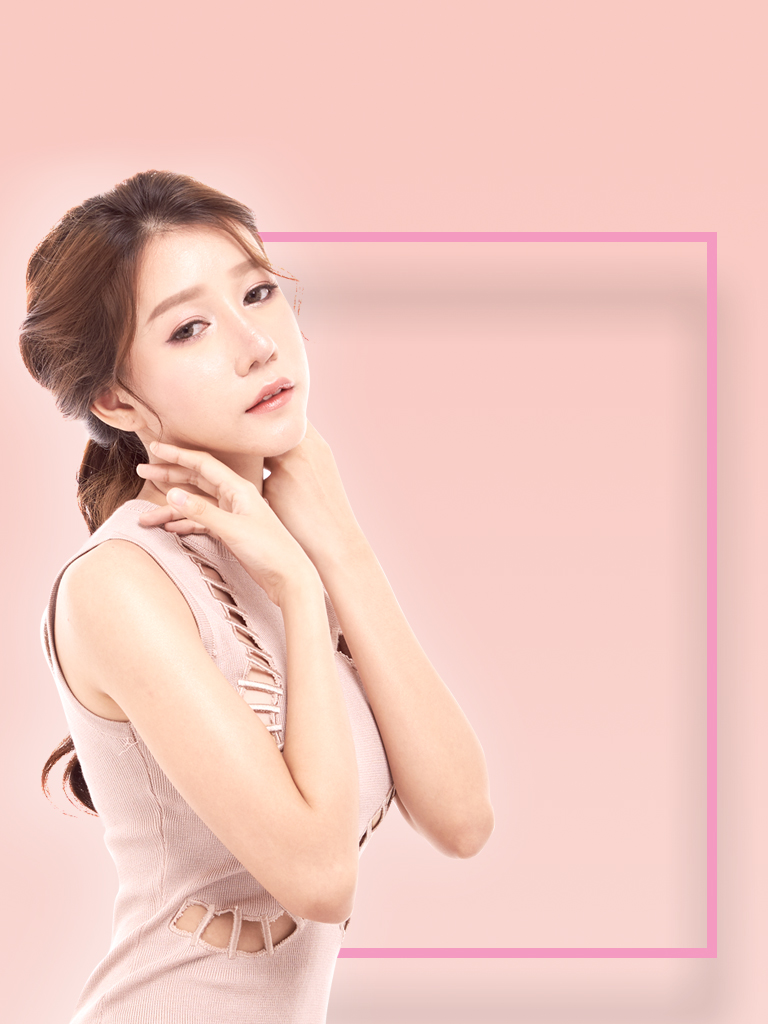
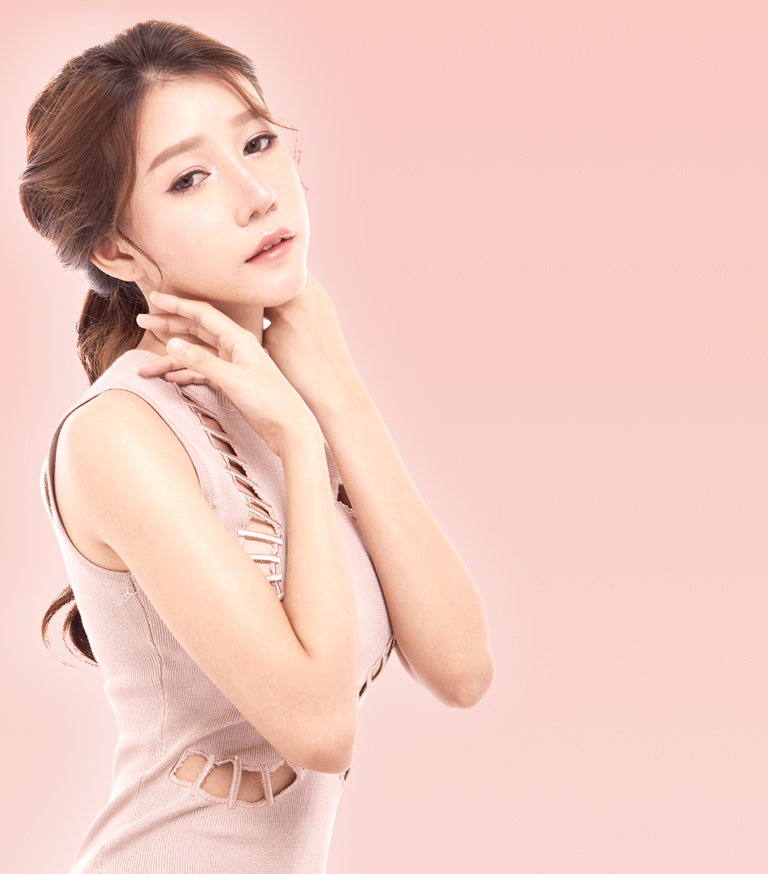
edit testimonial bg

diff --git a/abc/index.html b/abc/index.html
@@ -332,7 +332,7 @@
                 </div>
             </section>
             
-            <section class="bg-testimonial section">
+            <section class="bg-testimonial section fp-auto-height-responsive">
                 
                 <div class="container-fluid pt-5 pb-5">
                     <div class="row pt-0 pb-0">
@@ -344,47 +344,47 @@
                     </div>
                     
                     <div class="row">
-                        <div class="col-12 col-sm-12 col-md-6 offset-md-6 col-lg-4 col-xl-4 offset-lg-7">
+                        <div class="col-12 col-sm-12 col-md-7 offset-md-5 col-lg-6 offset-lg-6 col-xl-65 offset-xl-6">
                             <div id="carouselIndicators" class="carousel slide" data-ride="carousel">
                                 <div class="carousel-inner">
                                     <div class="carousel-item active text-center">
-                                        <iframe src="https://www.facebook.com/plugins/post.php?href=https%3A%2F%2Fwww.facebook.com%2Fkunfiat%2Fposts%2F10211258450399316%3A0&width=360" width="360" height="600" style="width: 100%; border:none;overflow:hidden" scrolling="no" frameborder="0" allowTransparency="true" allow="encrypted-media"></iframe>
+                                        <iframe src="https://www.facebook.com/plugins/post.php?href=https%3A%2F%2Fwww.facebook.com%2Fkunfiat%2Fposts%2F10211258450399316%3A0&width=600" width="600" height="450" style="width: 100%; border:none;overflow:hidden" scrolling="no" frameborder="0" allowTransparency="true" allow="encrypted-media"></iframe>
                                     </div>
                                     <div class="carousel-item text-center">
-                                        <iframe src="https://www.facebook.com/plugins/post.php?href=https%3A%2F%2Fwww.facebook.com%2Fpermalink.php%3Fstory_fbid%3D202237100564059%26id%3D100023333120364%26substory_index%3D0&width=360" width="360" height="600" style="width: 100%; border:none;overflow:hidden" scrolling="no" frameborder="0" allowTransparency="true" allow="encrypted-media"></iframe>
+                                        <iframe src="https://www.facebook.com/plugins/post.php?href=https%3A%2F%2Fwww.facebook.com%2Fpermalink.php%3Fstory_fbid%3D202237100564059%26id%3D100023333120364%26substory_index%3D0&width=600" width="600" height="450" style="width: 100%; border:none;overflow:hidden" scrolling="no" frameborder="0" allowTransparency="true" allow="encrypted-media"></iframe>
                                     </div>
                                     <div class="carousel-item text-center">
-                                        <iframe src="https://www.facebook.com/plugins/post.php?href=https%3A%2F%2Fwww.facebook.com%2Fnoony.koumphonphakdee%2Fposts%2F1958642414390766%3A0&width=360" width="360" height="600" style="width: 100%; border:none;overflow:hidden" scrolling="no" frameborder="0" allowTransparency="true" allow="encrypted-media"></iframe>
+                                        <iframe src="https://www.facebook.com/plugins/post.php?href=https%3A%2F%2Fwww.facebook.com%2Fnoony.koumphonphakdee%2Fposts%2F1958642414390766%3A0&width=600" width="600" height="450" style="width: 100%; border:none;overflow:hidden" scrolling="no" frameborder="0" allowTransparency="true" allow="encrypted-media"></iframe>
                                     </div>
                                     <div class="carousel-item text-center">
-                                        <iframe src="https://www.facebook.com/plugins/post.php?href=https%3A%2F%2Fwww.facebook.com%2Fji.fifa%2Fposts%2F1700762803298669%3A0&width=360" width="360" height="600" style="width: 100%; border:none;overflow:hidden" scrolling="no" frameborder="0" allowTransparency="true" allow="encrypted-media"></iframe>
+                                        <iframe src="https://www.facebook.com/plugins/post.php?href=https%3A%2F%2Fwww.facebook.com%2Fji.fifa%2Fposts%2F1700762803298669%3A0&width=600" width="600" height="450" style="width: 100%; border:none;overflow:hidden" scrolling="no" frameborder="0" allowTransparency="true" allow="encrypted-media"></iframe>
                                     </div>
                                     <div class="carousel-item text-center">
-                                        <iframe src="https://www.facebook.com/plugins/post.php?href=https%3A%2F%2Fwww.facebook.com%2Fpermalink.php%3Fstory_fbid%3D284262708754055%26id%3D100015109842452%26substory_index%3D0&width=360" width="360" height="600" style="width: 100%; border:none;overflow:hidden" scrolling="no" frameborder="0" allowTransparency="true" allow="encrypted-media"></iframe>
+                                        <iframe src="https://www.facebook.com/plugins/post.php?href=https%3A%2F%2Fwww.facebook.com%2Fpermalink.php%3Fstory_fbid%3D284262708754055%26id%3D100015109842452%26substory_index%3D0&width=600" width="600" height="450" style="width: 100%; border:none;overflow:hidden" scrolling="no" frameborder="0" allowTransparency="true" allow="encrypted-media"></iframe>
                                     </div>
                                     <div class="carousel-item text-center">
-                                        <iframe src="https://www.facebook.com/plugins/post.php?href=https%3A%2F%2Fwww.facebook.com%2Fpermalink.php%3Fstory_fbid%3D534124043598566%26id%3D100010029251324%26substory_index%3D0&width=360" width="360" height="600" style="width: 100%; border:none;overflow:hidden" scrolling="no" frameborder="0" allowTransparency="true" allow="encrypted-media"></iframe>
+                                        <iframe src="https://www.facebook.com/plugins/post.php?href=https%3A%2F%2Fwww.facebook.com%2Fpermalink.php%3Fstory_fbid%3D534124043598566%26id%3D100010029251324%26substory_index%3D0&width=600" width="600" height="450" style="width: 100%; border:none;overflow:hidden" scrolling="no" frameborder="0" allowTransparency="true" allow="encrypted-media"></iframe>
                                     </div>
                                     <div class="carousel-item text-center">
-                                        <iframe src="https://www.facebook.com/plugins/post.php?href=https%3A%2F%2Fwww.facebook.com%2Fnum.pwe%2Fposts%2F1704611066220651%3A0&width=360" width="360" height="600" style="width: 100%; border:none;overflow:hidden" scrolling="no" frameborder="0" allowTransparency="true" allow="encrypted-media"></iframe>
+                                        <iframe src="https://www.facebook.com/plugins/post.php?href=https%3A%2F%2Fwww.facebook.com%2Fnum.pwe%2Fposts%2F1704611066220651%3A0&width=600" width="600" height="450" style="width: 100%; border:none;overflow:hidden" scrolling="no" frameborder="0" allowTransparency="true" allow="encrypted-media"></iframe>
                                     </div>
                                     <div class="carousel-item text-center">
-                                        <iframe src="https://www.facebook.com/plugins/post.php?href=https%3A%2F%2Fwww.facebook.com%2Ffon.pps.7%2Fposts%2F1663580057047692%3A0&width=360" width="360" height="600" style="width: 100%; border:none;overflow:hidden" scrolling="no" frameborder="0" allowTransparency="true" allow="encrypted-media"></iframe>
+                                        <iframe src="https://www.facebook.com/plugins/post.php?href=https%3A%2F%2Fwww.facebook.com%2Ffon.pps.7%2Fposts%2F1663580057047692%3A0&width=600" width="600" height="450" style="width: 100%; border:none;overflow:hidden" scrolling="no" frameborder="0" allowTransparency="true" allow="encrypted-media"></iframe>
                                     </div>
                                     <div class="carousel-item text-center">
-                                        <iframe src="https://www.facebook.com/plugins/post.php?href=https%3A%2F%2Fwww.facebook.com%2Fpond.pepoepond%2Fposts%2F10206839553498601%3A0&width=360" width="360" height="600" style="width: 100%; border:none;overflow:hidden" scrolling="no" frameborder="0" allowTransparency="true" allow="encrypted-media"></iframe>
+                                        <iframe src="https://www.facebook.com/plugins/post.php?href=https%3A%2F%2Fwww.facebook.com%2Fpond.pepoepond%2Fposts%2F10206839553498601%3A0&width=600" width="600" height="450" style="width: 100%; border:none;overflow:hidden" scrolling="no" frameborder="0" allowTransparency="true" allow="encrypted-media"></iframe>
                                     </div>
                                     <div class="carousel-item text-center">
-                                        <iframe src="https://www.facebook.com/plugins/post.php?href=https%3A%2F%2Fwww.facebook.com%2Fbe.beau.92%2Fposts%2F1093721940764516%3A0&width=360" width="360" height="600" style="width: 100%; border:none;overflow:hidden" scrolling="no" frameborder="0" allowTransparency="true" allow="encrypted-media"></iframe>
+                                        <iframe src="https://www.facebook.com/plugins/post.php?href=https%3A%2F%2Fwww.facebook.com%2Fbe.beau.92%2Fposts%2F1093721940764516%3A0&width=600" width="600" height="450" style="width: 100%; border:none;overflow:hidden" scrolling="no" frameborder="0" allowTransparency="true" allow="encrypted-media"></iframe>
                                     </div>
                                     <div class="carousel-item text-center">
-                                        <iframe src="https://www.facebook.com/plugins/post.php?href=https%3A%2F%2Fwww.facebook.com%2Fthunyatorn.saimek%2Fposts%2F1373445682747028%3A0&width=360" width="360" height="600" style="width: 100%; border:none;overflow:hidden" scrolling="no" frameborder="0" allowTransparency="true" allow="encrypted-media"></iframe>
+                                        <iframe src="https://www.facebook.com/plugins/post.php?href=https%3A%2F%2Fwww.facebook.com%2Fthunyatorn.saimek%2Fposts%2F1373445682747028%3A0&width=600" width="600" height="450" style="width: 100%; border:none;overflow:hidden" scrolling="no" frameborder="0" allowTransparency="true" allow="encrypted-media"></iframe>
                                     </div>
                                     <div class="carousel-item text-center">
-                                        <iframe src="https://www.facebook.com/plugins/post.php?href=https%3A%2F%2Fwww.facebook.com%2Fpermalink.php%3Fstory_fbid%3D1664753460497026%26id%3D100008871638944%26substory_index%3D0&width=360" width="360" height="600" style="width: 100%; border:none;overflow:hidden" scrolling="no" frameborder="0" allowTransparency="true" allow="encrypted-media"></iframe>
+                                        <iframe src="https://www.facebook.com/plugins/post.php?href=https%3A%2F%2Fwww.facebook.com%2Fpermalink.php%3Fstory_fbid%3D1664753460497026%26id%3D100008871638944%26substory_index%3D0&width=600" width="600" height="450" style="width: 100%; border:none;overflow:hidden" scrolling="no" frameborder="0" allowTransparency="true" allow="encrypted-media"></iframe>
                                     </div>
                                 </div>
-                            </div>    
+                            </div> 
                         </div>
                     </div>
                 </div>
@@ -517,7 +517,7 @@
 </script>
                             <script async defer src="https://maps.googleapis.com/maps/api/js?key=AIzaSyBwhKiNFMoj52G8-gwffzCzCyKJpOOb9gE&callback=initMap"></script>
                         </div>
-                        <div class="col-12 col-sm-4 bg-white text-center">
+                        <div class="col-12 col-sm-4 bg-white text-center pl-0 pr-0">
                             <div class="col-12 border-bottom pt-3 pb-3 align-center">
                                 <h1 class="text-center">ที่อยู่</h1>
                                 <i class="fas fa-minus text-primary"></i>
@@ -525,12 +525,12 @@
                                 <p><i class="fas fa-map-marker-alt text-secondary fa-2x"></i> 385 ซอยสุขุมวิท 63 แขวงคลองตันเหนือ เขตวัฒนา กรุงเทพมหานคร 10510</p>
                             </div>
                             
-                            <div class="col-12 pt-3 pb-3 align-center text-left">
-                                <h1 class="text-left">วันและเวลาทำการ</h1>
-                                <i class="fas fa-minus text-primary"></i>
+                            <div class="col-12 pt-3 pb-3 align-center">
+                                <h1 class="text-ceter">วันและเวลาทำการ</h1>
+                                <i class="fas fa-minus text-primary text-center"></i>
 
-                                <p><i class="fas fa-calendar-alt fa-2x text-secondary"></i> จันทร์ - ศุกร์</p>
-                                <p><i class="far fa-clock text-secondary fa-2x"></i> จันทร์ - ศุกร์ 10.00 - 19.00</p>
+                                <p class="text-left"><i class="fas fa-calendar-alt fa-2x text-secondary"></i> จันทร์ - ศุกร์</p>
+                                <p class="text-left"><i class="far fa-clock text-secondary fa-2x"></i> จันทร์ - ศุกร์ 10.00 - 19.00</p>
                             </div>
 
                             <div class="col-12 border-top pt-3 pb-3 align-center">
@@ -538,10 +538,10 @@
                                 <i class="fas fa-minus text-primary"></i>
                                 <div class="row">
                                     <div class="col-8">
-                                        <h4 class="text-left"><i class="fas fa-phone-volume"></i> <a href="tel:+6620021919">02-002-1919</a></h4>
+                                        <h6 class="text-left"><i class="fas fa-phone-volume"></i> <a href="tel:+6620021919">02-002-1919</a></h6>
 
-                                        <h4 class="text-left"><i class="fab fa-line"></i> <a href="https://line.me/R/ti/p/%40abcthailand" target="_blank">@abcthailand</a></h4>
-                                        <h4 class="text-left"><i class="far fa-envelope"></i> <a href="mailto:abcthailandgroup@gmail.com">abcthailandgroup@gmail.com</a></h4>
+                                        <h6 class="text-left"><i class="fab fa-line"></i> <a href="https://line.me/R/ti/p/%40abcthailand" target="_blank">@abcthailand</a></h6>
+                                        <h6 class="text-left"><i class="far fa-envelope"></i> <a href="mailto:abcthailandgroup@gmail.com">abcthailandgroup@gmail.com</a></h6>
                                     </div>
                                     <div class="col-4">
                                         <img class="w-100" src="assets/img/map/lineatqr.jpg">
